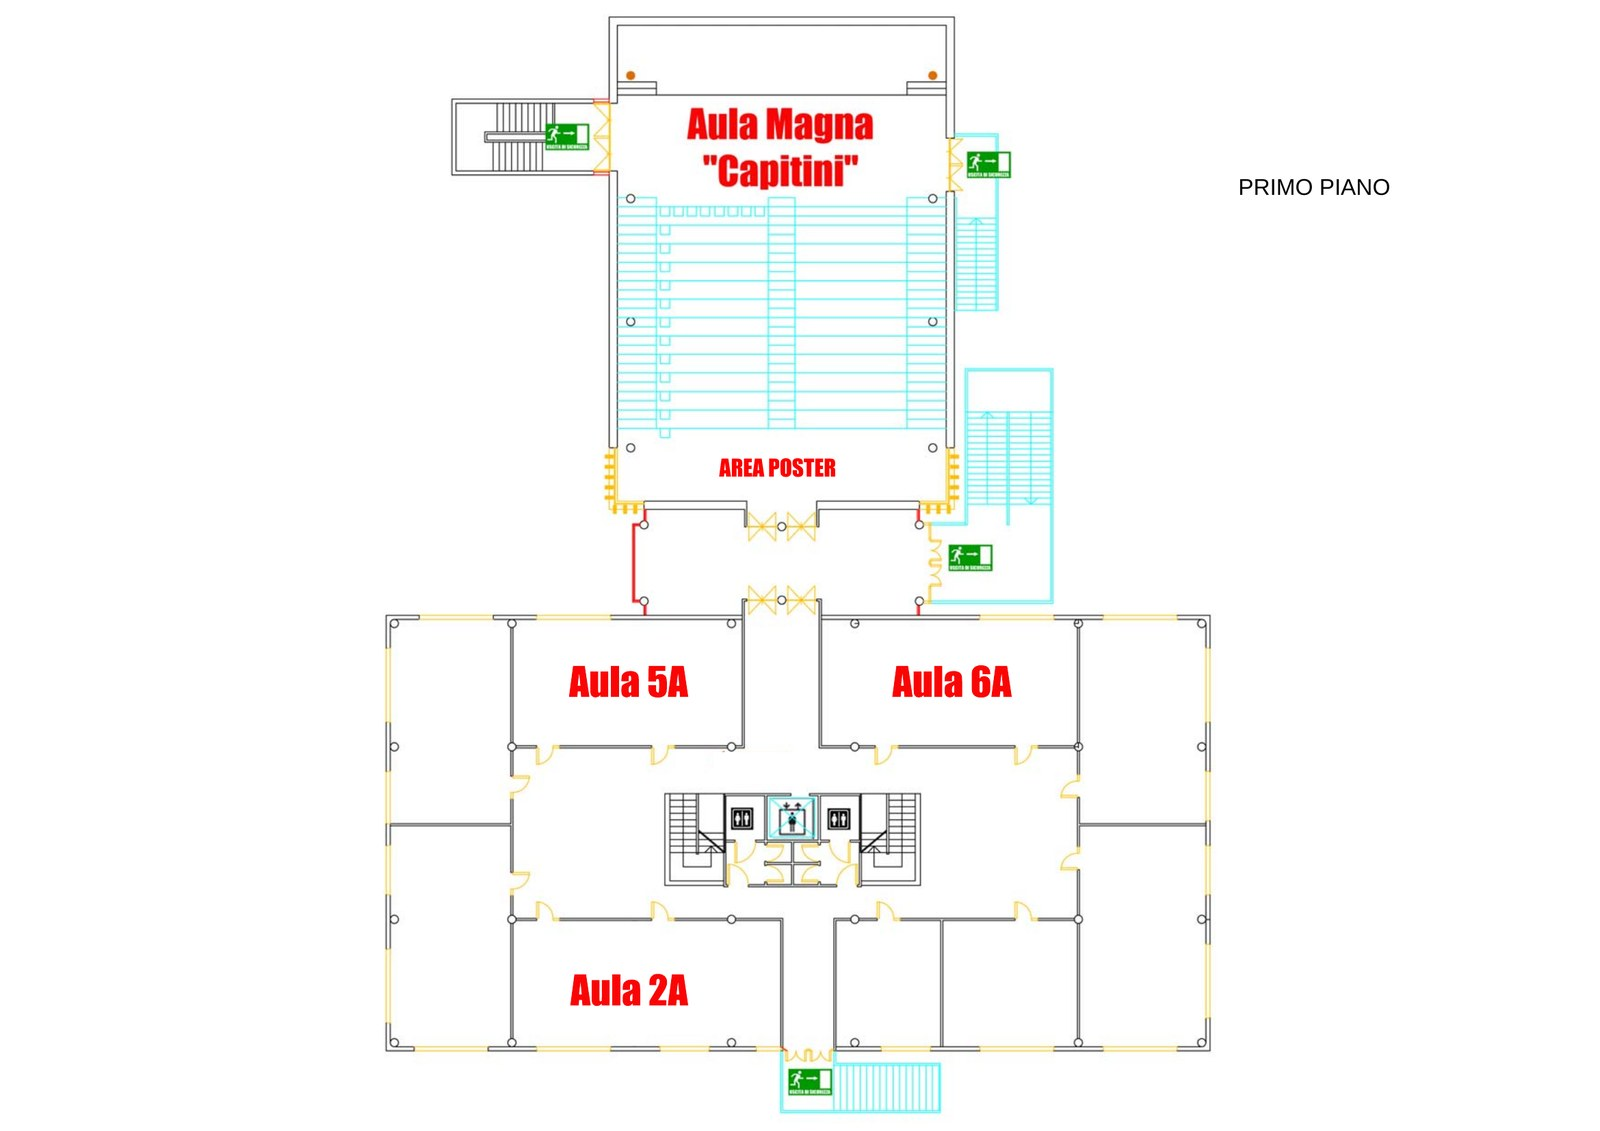
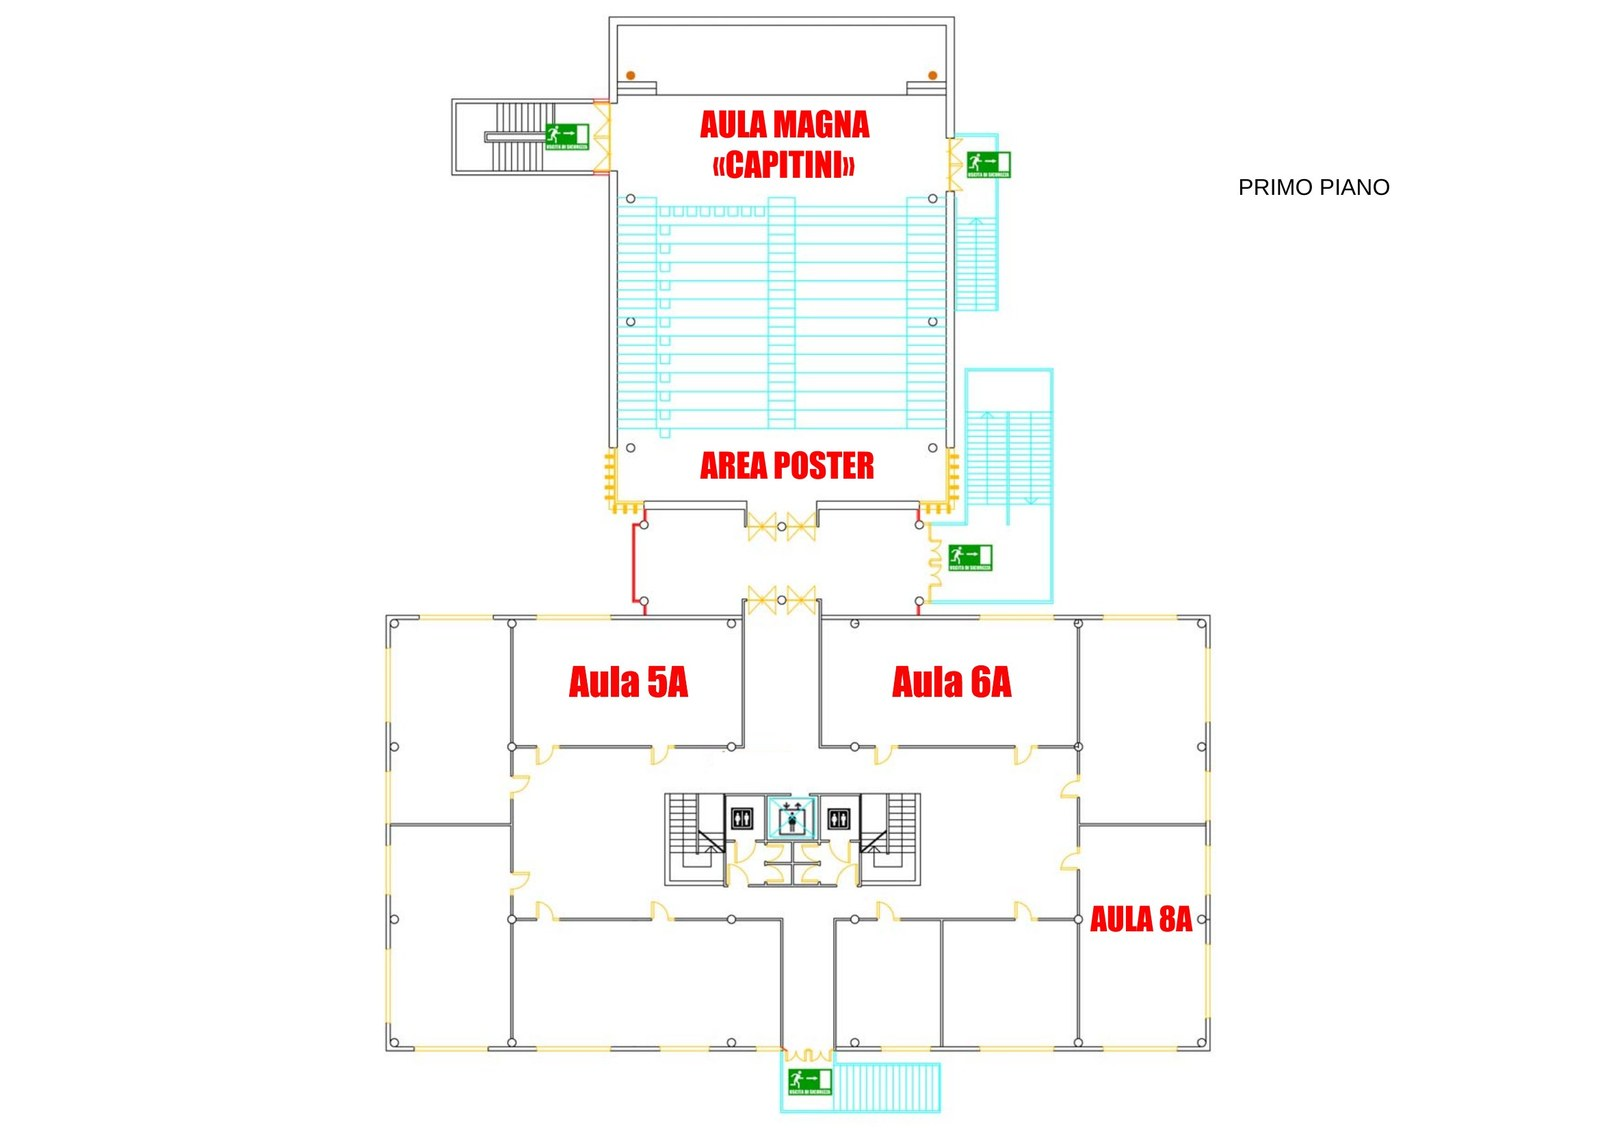
feat(companion-mappa): aggiorna pianta primo piano con Aula 8A
- Rasterizza nuovo PDF Aule_aiucd_2026 nelle piante piano-terra e primo-piano (1600px largh., aspect ratio invariato per non rompere i marker).
- Ridefinisce le coordinate del ROOM_LAYOUT in mappa-view.js sui rettangoli reali di muratura della nuova pianta (Aula Capitini, 5A, 6A, 8A).
- Aggiorna copy "travel" Aula 8A (estremita' sud-est, non sud-ovest).
- Aggiunge cache busting al src delle img (MAPPA_IMG_VERSION) e bumpa il tag di import dei moduli ES da v=f4-2 a v=f4-3 per forzare il refresh sui client.

diff --git a/wordpress/wp-content/plugins/aiucd-companion/static/companion/assets/js/mappa-view.js b/wordpress/wp-content/plugins/aiucd-companion/static/companion/assets/js/mappa-view.js
@@ -3,7 +3,7 @@
 // cliccabili sopra le aule. Lo stato live è calcolato come prima.
 
 import { getNow } from "./livestate.js";
-import { t, translateRoom, getLang } from "./i18n.js?v=f4-2";
+import { t, translateRoom, getLang } from "./i18n.js?v=f4-3";
 
 let _state = {
   data: null,
@@ -23,23 +23,23 @@ const ROOMS = ["Aula Capitini", "Aula 5A", "Aula 6A", "Aula 8A"];
 const ROOM_LAYOUT = {
   "Aula Capitini": {
     floor: "primo-piano",
-    top: 23.78, left: 46.56,
-    width: 19.38, height: 33.78,
+    top: 2.65, left: 36.25,
+    width: 31.25, height: 34.93,
   },
   "Aula 5A": {
     floor: "primo-piano",
-    top: 59.02, left: 33.75,
-    width: 18.12, height: 11.94,
+    top: 53.93, left: 26.25,
+    width: 19.38, height: 14.15,
   },
   "Aula 6A": {
     floor: "primo-piano",
-    top: 59.02, left: 65.78,
-    width: 17.81, height: 11.94,
+    top: 53.93, left: 55.00,
+    width: 19.38, height: 14.15,
   },
   "Aula 8A": {
     floor: "primo-piano",
-    top: 84.44, left: 33.75,
-    width: 18.12, height: 15.03,
+    top: 76.04, left: 67.19,
+    width: 25.63, height: 13.26,
   },
 };
 
@@ -60,9 +60,9 @@ const ROOM_DESCRIPTIONS = {
     travel: "Al primo piano, attraversa l'Area Poster verso sud: Aula 6A è la prima sala sulla destra, di fronte ad Aula 5A.",
   },
   "Aula 8A": {
-    location: "Corpo aggiunto · primo piano · estremità sud",
+    location: "Corpo aggiunto · primo piano · estremità sud-est",
     role: "Sessioni parallele track C",
-    travel: "Al primo piano, scendi lungo il corridoio centrale oltre Aula 5A e Aula 6A: Aula 8A è la sala in fondo, sul lato sud-ovest.",
+    travel: "Al primo piano, scendi lungo il corridoio centrale oltre Aula 6A: Aula 8A è la sala in fondo, sul lato sud-est dell'edificio.",
   },
 };
 
@@ -81,11 +81,15 @@ function floorLabel(id) {
   return id;
 }
 
+// Bump del query-string quando si ri-rasterizza la pianta dal PDF: forza
+// il browser a scaricare il nuovo JPG anche se il path file è invariato.
+const MAPPA_IMG_VERSION = "aule-2026-v2";
+
 const FLOORS = [
   {
     id: "primo-piano",
     get label() { return floorLabel("primo-piano"); },
-    img: ASSET_BASE + "assets/img/mappa/primo-piano.jpg",
+    img: ASSET_BASE + "assets/img/mappa/primo-piano.jpg?v=" + MAPPA_IMG_VERSION,
     get alt() {
       return getLang() === "en"
         ? "First floor plan of the Annex Building: Capitini Main Room, Poster Area, Rooms 5A, 6A, 8A."
@@ -100,7 +104,7 @@ const FLOORS = [
   {
     id: "piano-terra",
     get label() { return floorLabel("piano-terra"); },
-    img: ASSET_BASE + "assets/img/mappa/piano-terra.jpg",
+    img: ASSET_BASE + "assets/img/mappa/piano-terra.jpg?v=" + MAPPA_IMG_VERSION,
     get alt() {
       return getLang() === "en"
         ? "Ground floor plan of the Annex Building: entrances, Specchi Room, catering area."

diff --git a/wordpress/wp-content/plugins/aiucd-companion/static/companion/assets/js/app.js b/wordpress/wp-content/plugins/aiucd-companion/static/companion/assets/js/app.js
@@ -1,19 +1,19 @@
 // AIUCD 2026 Companion · entry point
 
-import { loadAllData } from "./data.js?v=f4-2";
-import { liveState, getCountdownInfo, getOpeningTime, getNow, checkClockSkew } from "./livestate.js?v=f4-2";
-import { renderProgram } from "./program-view.js?v=f4-2";
-import { renderMineList, renderPathsOverlay } from "./path-view.js?v=f4-2";
-import { renderMappa } from "./mappa-view.js?v=f4-2";
-import { renderCagliari, onCagliariVisible } from "./cagliari-view.js?v=f4-2";
-import { renderCatalog, onCatalogVisible } from "./catalog-view.js?v=f4-2";
-import { renderPoster } from "./poster-view.js?v=f4-2";
-import { renderNumeri, onNumeriVisible } from "./numeri-view.js?v=f4-2";
-import * as modal from "./talk-modal-v2.js?v=f4-2";
+import { loadAllData } from "./data.js?v=f4-3";
+import { liveState, getCountdownInfo, getOpeningTime, getNow, checkClockSkew } from "./livestate.js?v=f4-3";
+import { renderProgram } from "./program-view.js?v=f4-3";
+import { renderMineList, renderPathsOverlay } from "./path-view.js?v=f4-3";
+import { renderMappa } from "./mappa-view.js?v=f4-3";
+import { renderCagliari, onCagliariVisible } from "./cagliari-view.js?v=f4-3";
+import { renderCatalog, onCatalogVisible } from "./catalog-view.js?v=f4-3";
+import { renderPoster } from "./poster-view.js?v=f4-3";
+import { renderNumeri, onNumeriVisible } from "./numeri-view.js?v=f4-3";
+import * as modal from "./talk-modal-v2.js?v=f4-3";
 import * as agenda from "./agenda.js";
 import { createDrawer } from "./drawer-controller.js";
-import { initNoaDrawer } from "./noa-drawer.js?v=f4-2";
-import { loadI18n, t, getLang } from "./i18n.js?v=f4-2";
+import { initNoaDrawer } from "./noa-drawer.js?v=f4-3";
+import { loadI18n, t, getLang } from "./i18n.js?v=f4-3";
 
 async function init() {
   // Carica dizionario i18n (it/en). Mette `data-lang` su <html> e localizza

diff --git a/wordpress/wp-content/plugins/aiucd-companion/static/companion/assets/js/talk-modal-v2.js b/wordpress/wp-content/plugins/aiucd-companion/static/companion/assets/js/talk-modal-v2.js
@@ -1,9 +1,9 @@
 // AIUCD 2026 Companion · modale talk
 
-import { AREA_BY_CODE, areaLabel } from "./data.js?v=f4-2";
+import { AREA_BY_CODE, areaLabel } from "./data.js?v=f4-3";
 import * as agenda from "./agenda.js";
-import { showSingleEventMenu } from "./calendar-menu.js?v=f4-2";
-import { t, getLang, translateRoom } from "./i18n.js?v=f4-2";
+import { showSingleEventMenu } from "./calendar-menu.js?v=f4-3";
+import { t, getLang, translateRoom } from "./i18n.js?v=f4-3";
 
 let _backdrop = null;
 

diff --git a/wordpress/wp-content/plugins/aiucd-companion/static/companion/assets/js/catalog-view.js b/wordpress/wp-content/plugins/aiucd-companion/static/companion/assets/js/catalog-view.js
@@ -2,9 +2,9 @@
 // Porting del mockup_catalogo.html: mappa Leaflet hero + overlay, search,
 // pannello filtri (modes/areas/affiliation/gigliozzi), cards, view switch.
 
-import { AREAS, AREA_BY_CODE, areaLabel } from "./data.js?v=f4-2";
+import { AREAS, AREA_BY_CODE, areaLabel } from "./data.js?v=f4-3";
 import * as agenda from "./agenda.js";
-import { t, getLang } from "./i18n.js?v=f4-2";
+import { t, getLang } from "./i18n.js?v=f4-3";
 
 let _state = {
   data: null,

diff --git a/wordpress/wp-content/plugins/aiucd-companion/static/companion/assets/js/path-view.js b/wordpress/wp-content/plugins/aiucd-companion/static/companion/assets/js/path-view.js
@@ -8,8 +8,8 @@
 
 import * as agenda from "./agenda.js";
 import { getNow } from "./livestate.js";
-import { showAgendaMenu } from "./calendar-menu.js?v=f4-2";
-import { t, formatDay, getLang, translateRoom, field } from "./i18n.js?v=f4-2";
+import { showAgendaMenu } from "./calendar-menu.js?v=f4-3";
+import { t, formatDay, getLang, translateRoom, field } from "./i18n.js?v=f4-3";
 
 // Etichette user-facing dei tre criteri di costruzione dei percorsi.
 function CRITERIA_LABELS_FN() {

diff --git a/wordpress/wp-content/plugins/aiucd-companion/static/companion/assets/js/poster-view.js b/wordpress/wp-content/plugins/aiucd-companion/static/companion/assets/js/poster-view.js
@@ -1,8 +1,8 @@
 // AIUCD 2026 Companion · vista Poster (galleria a grafo D3)
 
-import { AREAS, AREA_BY_CODE, areaLabel } from "./data.js?v=f4-2";
+import { AREAS, AREA_BY_CODE, areaLabel } from "./data.js?v=f4-3";
 import * as agenda from "./agenda.js";
-import { t, getLang } from "./i18n.js?v=f4-2";
+import { t, getLang } from "./i18n.js?v=f4-3";
 
 const ROOT_FONT_SIZE_DESKTOP = 14;
 const NODE_RADIUS_DESKTOP = 32;

diff --git a/wordpress/wp-content/plugins/aiucd-companion/static/companion/assets/js/program-view.js b/wordpress/wp-content/plugins/aiucd-companion/static/companion/assets/js/program-view.js
@@ -1,10 +1,10 @@
 // AIUCD 2026 Companion · vista Programma (griglia tempo × aula)
 
-import { AREAS, AREA_BY_CODE, areaLabel } from "./data.js?v=f4-2";
+import { AREAS, AREA_BY_CODE, areaLabel } from "./data.js?v=f4-3";
 import * as agenda from "./agenda.js";
 import { nowMinutesOfDay, getNow } from "./livestate.js";
 import { renderLiveSnapshot } from "./now-view.js?v=copy1";
-import { t, formatDay, translateRoom, field } from "./i18n.js?v=f4-2";
+import { t, formatDay, translateRoom, field } from "./i18n.js?v=f4-3";
 
 const ROOMS_ORDER = ["Aula 5A", "Aula 6A", "Aula 8A"];
 

diff --git a/wordpress/wp-content/plugins/aiucd-companion/static/companion/assets/js/cagliari-view.js b/wordpress/wp-content/plugins/aiucd-companion/static/companion/assets/js/cagliari-view.js
@@ -19,7 +19,7 @@ function resolveAsset(src) {
 
 // Importato qui (non in cima al file per evitare collisione col commento di
 // resolveAsset definito sopra). t() ritorna stringhe localizzate IT/EN.
-import { t, field, getLang } from "./i18n.js?v=f4-2";
+import { t, field, getLang } from "./i18n.js?v=f4-3";
 
 function typeLabel(code) {
   const map = {

diff --git a/wordpress/wp-content/plugins/aiucd-companion/static/companion/assets/js/calendar-menu.js b/wordpress/wp-content/plugins/aiucd-companion/static/companion/assets/js/calendar-menu.js
@@ -2,7 +2,7 @@
 // Tre opzioni esplicite: Google · Apple/iPhone · Outlook · scarica .ics
 
 import * as cal from "./calendar-export.js";
-import { getLang } from "./i18n.js?v=f4-2";
+import { getLang } from "./i18n.js?v=f4-3";
 
 let _openMenu = null;
 

diff --git a/wordpress/wp-content/plugins/aiucd-companion/static/companion/assets/js/noa-drawer.js b/wordpress/wp-content/plugins/aiucd-companion/static/companion/assets/js/noa-drawer.js
@@ -5,7 +5,7 @@
 
 import * as agenda from "./agenda.js";
 import { liveState, getNow } from "./livestate.js";
-import { t, getLang } from "./i18n.js?v=f4-2";
+import { t, getLang } from "./i18n.js?v=f4-3";
 import { getGapSuggestion, NOA_VOICE_TONE } from "./avatar.js?v=noa1";
 import { createDrawer } from "./drawer-controller.js";
 

diff --git a/wordpress/wp-content/plugins/aiucd-companion/static/companion/assets/js/numeri-view.js b/wordpress/wp-content/plugins/aiucd-companion/static/companion/assets/js/numeri-view.js
@@ -3,7 +3,7 @@
 // stacked bar mode-area, bar timeline, top affiliazioni, mappa Leaflet,
 // indicatori qualità.
 
-import { t, getLang } from "./i18n.js?v=f4-2";
+import { t, getLang } from "./i18n.js?v=f4-3";
 
 // Quando il companion è embedded in WordPress, window.AIUCD_DATA_URL punta
 // alla cartella dati del plugin. In standalone resta il path relativo storico.